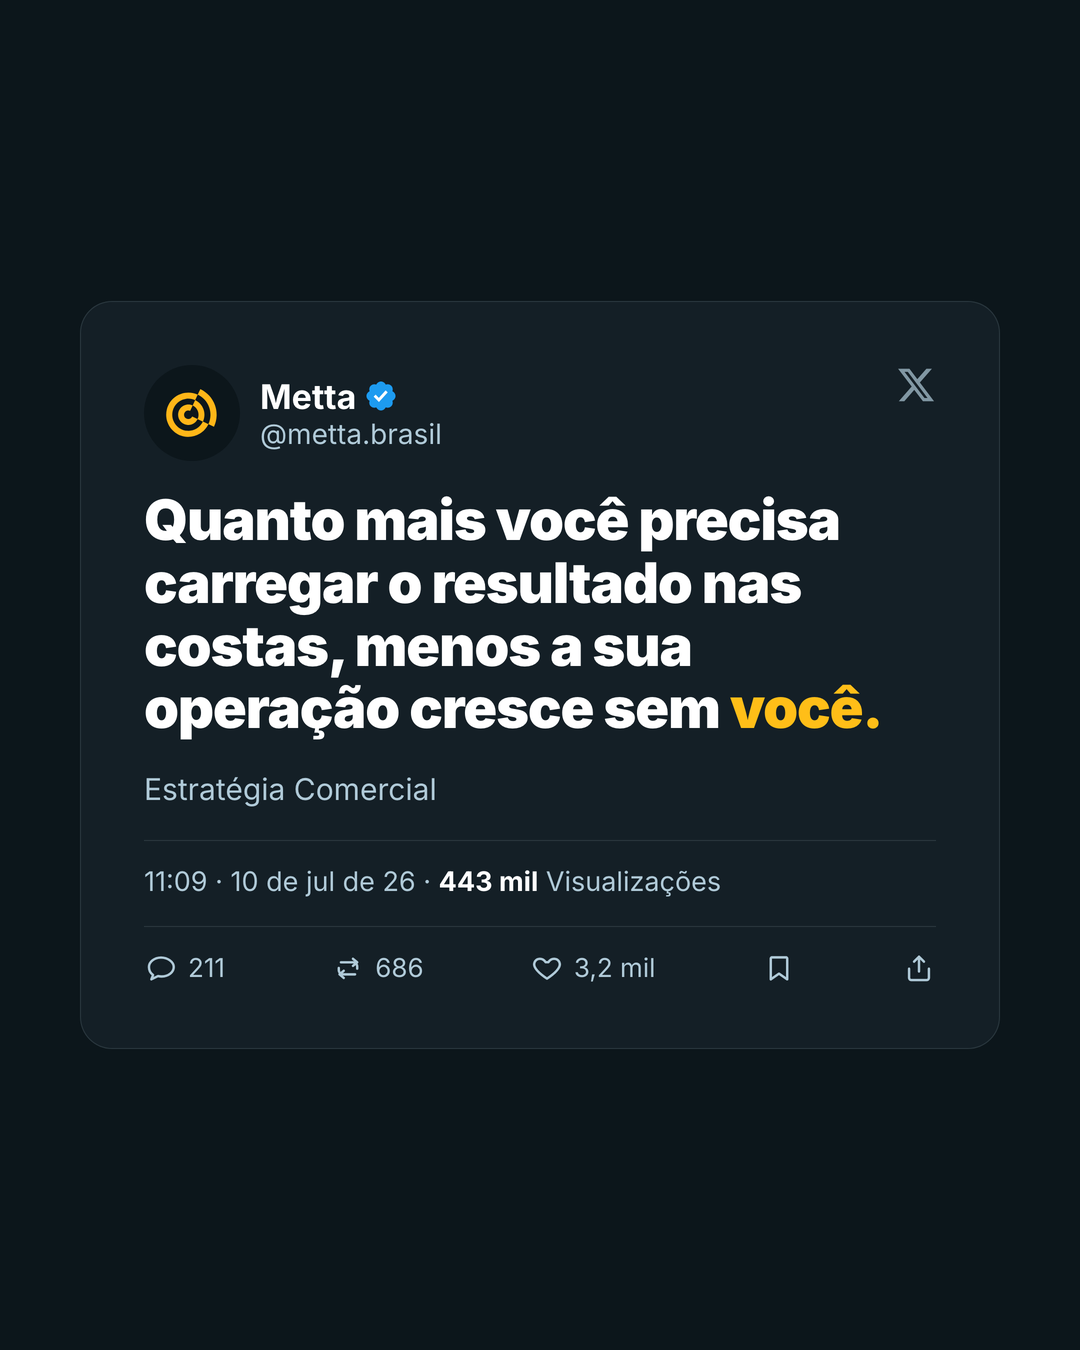
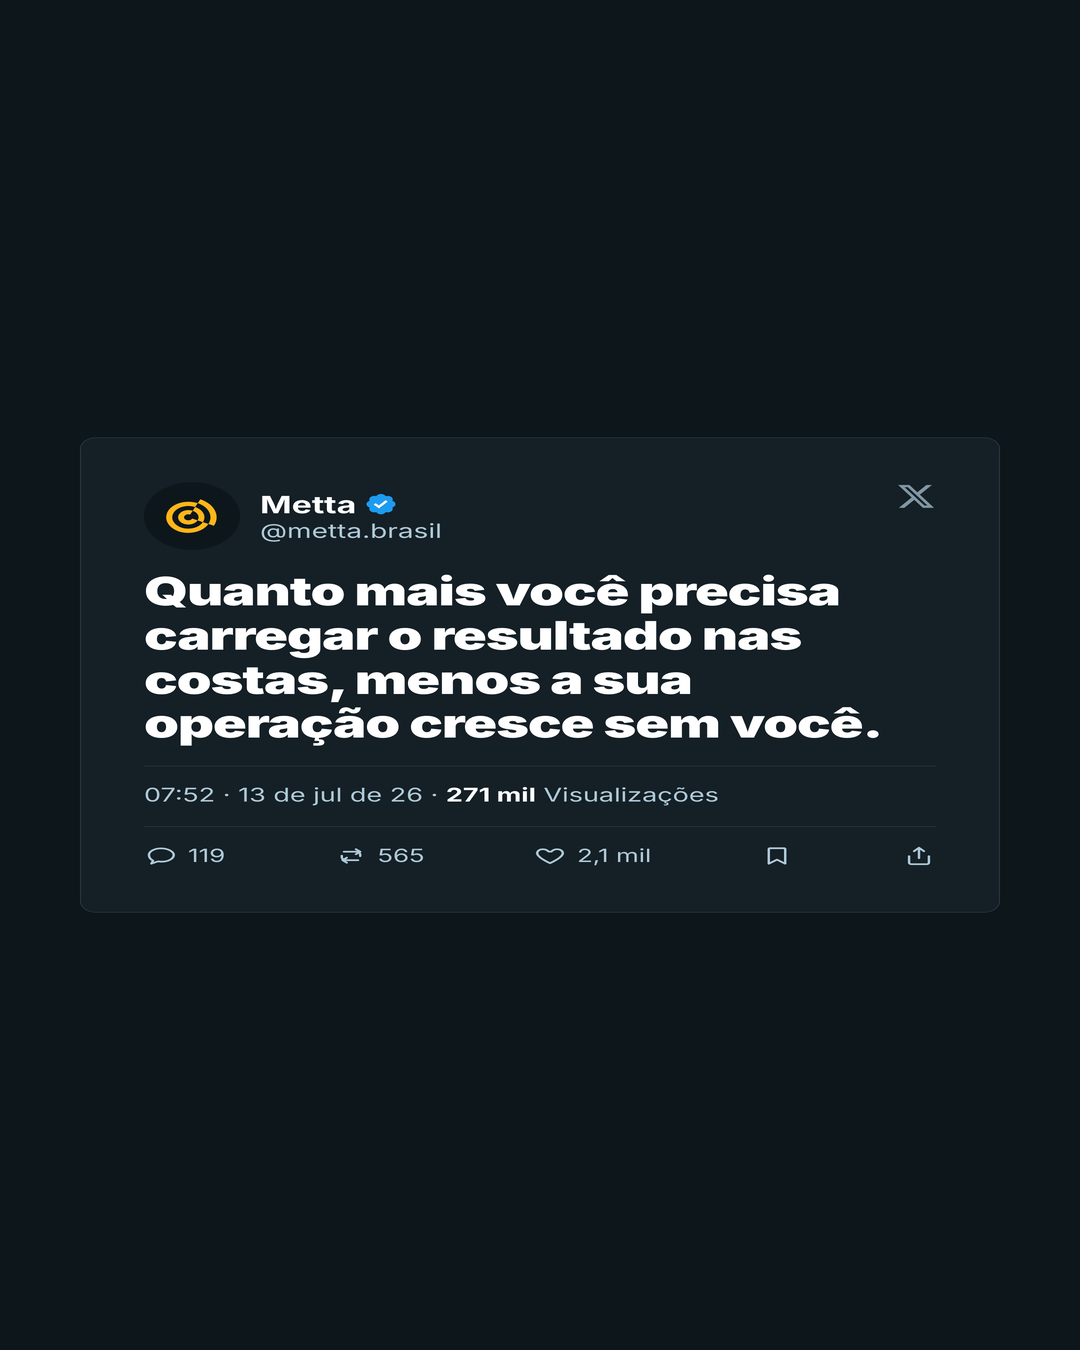
fix(tweet): remove destaque amarelo do texto + canto arredondado real do X
Feedback direto da Sofia (print "Resultados ruins"): print real de tweet
nao tem highlight colorido em palavra nem canto tao arredondado.

- card-mock (Metta) e tiago-twitter: .hi vira so negrito (herda cor do
  texto), sem cor/fundo amarelo — escopado so pros arquetipos de tweet,
  o destaque amarelo normal do resto do sistema continua intacto.
- card-mock: border-radius 32px -> 16px (card).
- tiago-twitter: border-radius da imagem embutida 28px -> 16px (media do X).

diff --git a/source/ad-blueprints/_engine.css b/source/ad-blueprints/_engine.css
@@ -393,7 +393,7 @@ button { all: unset; }
 /* (6) card-mock — cartão de rede social (tweet) */
 .ad[data-arch="card-mock"] { display: flex; align-items: center; justify-content: center; background: var(--m-night-95); }
 .ad[data-arch="card-mock"] .card {
-  width: 920px; background: var(--m-white); border-radius: 32px; padding: 64px;
+  width: 920px; background: var(--m-white); border-radius: 16px; padding: 64px;
   display: flex; flex-direction: column; gap: 28px; box-shadow: 0 24px 80px rgba(12,22,27,.12);
 }
 .ad[data-arch="card-mock"] .mock-head { display: flex; align-items: center; gap: 20px; }
@@ -406,7 +406,8 @@ button { all: unset; }
 .ad[data-arch="card-mock"] .verified { width: 34px; height: 34px; flex-shrink: 0; }
 .ad[data-arch="card-mock"] .x-logo { width: 40px; height: 40px; margin-left: auto; align-self: flex-start; color: var(--m-night-40); opacity: .7; }
 .ad[data-arch="card-mock"] .t-head { font-family: var(--m-text); font-weight: 700; font-size: 56px; line-height: 1.12; text-transform: none; letter-spacing: -.02em; color: var(--m-night-10); }
-.ad[data-arch="card-mock"] .t-head .hi { color: #B8860B; }
+/* print real do X não tem destaque colorido — só negrito na palavra (feedback Sofia) */
+.ad[data-arch="card-mock"] .t-head .hi { color: inherit; font-weight: 900; }
 .ad[data-arch="card-mock"] .t-body { font-size: 30px; color: var(--m-night-40); }
 /* prova social de print real: timestamp + views e barra de engajamento do X */
 .ad[data-arch="card-mock"] .mock-meta { font-family: var(--m-text); font-size: 27px; color: var(--m-night-40); padding-top: 24px; border-top: 1px solid #EFF3F4; }
@@ -422,7 +423,7 @@ button { all: unset; }
 .ad[data-arch="card-mock"][data-theme="dark"] .who .name { color: var(--m-white); }
 .ad[data-arch="card-mock"][data-theme="dark"] .who .handle { color: var(--m-night-85); }
 .ad[data-arch="card-mock"][data-theme="dark"] .t-head { color: var(--m-white); }
-.ad[data-arch="card-mock"][data-theme="dark"] .t-head .hi { color: var(--m-yellow); }
+.ad[data-arch="card-mock"][data-theme="dark"] .t-head .hi { color: inherit; font-weight: 900; }
 .ad[data-arch="card-mock"][data-theme="dark"] .t-body { color: var(--m-night-85); }
 .ad[data-arch="card-mock"][data-theme="dark"] .x-logo { color: var(--m-night-85); }
 .ad[data-arch="card-mock"][data-theme="dark"] .mock-meta,
@@ -660,12 +661,15 @@ button { all: unset; }
 .ad[data-marca="tiago"][data-arch="tiago-twitter"] .tw-handle { font-size: 22px; color: var(--t-grey); line-height: 1.2; }
 .ad[data-marca="tiago"][data-arch="tiago-twitter"] .tw-text { display: flex; flex-direction: column; gap: 24px; flex: 1; justify-content: center; }
 .ad[data-marca="tiago"][data-arch="tiago-twitter"] .tw-headline { font-size: 52px; line-height: 1.2; letter-spacing: -.02em; color: var(--t-ink); margin: 0; word-break: break-word; }
+/* print real do X não tem destaque colorido nem bloco — só negrito na palavra (feedback Sofia) */
+.ad[data-marca="tiago"][data-arch="tiago-twitter"] .t-head .hi,
+.ad[data-marca="tiago"][data-arch="tiago-twitter"] .tw-headline .hi { color: inherit; background: none; padding: 0; font-weight: 900; }
 .ad[data-marca="tiago"][data-arch="tiago-twitter"] .tw-subhead { font-size: 36px; line-height: 1.35; color: var(--t-ink); margin: 0; }
 .ad[data-marca="tiago"][data-arch="tiago-twitter"] .tw-body { font-size: 28px; line-height: 1.45; color: var(--t-grey); margin: 0; }
 .ad[data-marca="tiago"][data-arch="tiago-twitter"] .tw-cta { font-size: 28px; color: var(--t-grey); margin: 32px 0 0; }
 /* variant IMAGE — foto embed radius 28px ocupa a base do card */
 .ad[data-marca="tiago"][data-arch="tiago-twitter"] .tw-text--withimg { flex: 0 0 auto; }
-.ad[data-marca="tiago"][data-arch="tiago-twitter"] .tw-embed { flex: 1; min-height: 0; margin-top: 32px; border-radius: 28px; overflow: hidden; }
+.ad[data-marca="tiago"][data-arch="tiago-twitter"] .tw-embed { flex: 1; min-height: 0; margin-top: 32px; border-radius: 16px; overflow: hidden; }
 .ad[data-marca="tiago"][data-arch="tiago-twitter"] .tw-embed-photo { width: 100%; height: 100%; background-size: cover; background-position: center; }
 /* prova social de print real: timestamp + views e barra de engajamento do X */
 .ad[data-marca="tiago"][data-arch="tiago-twitter"] .tw-meta { font-size: 24px; color: var(--t-grey); margin-top: 36px; padding-top: 22px; border-top: 1px solid #EFF3F4; }
